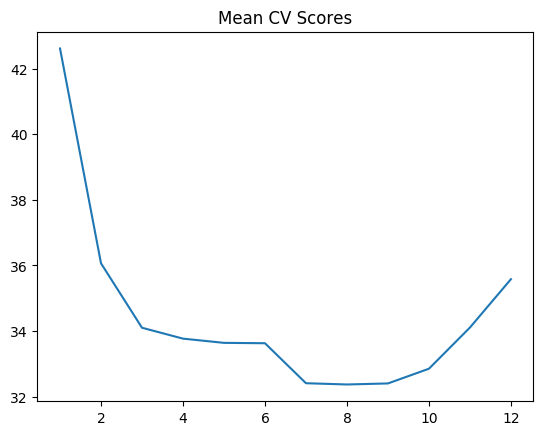
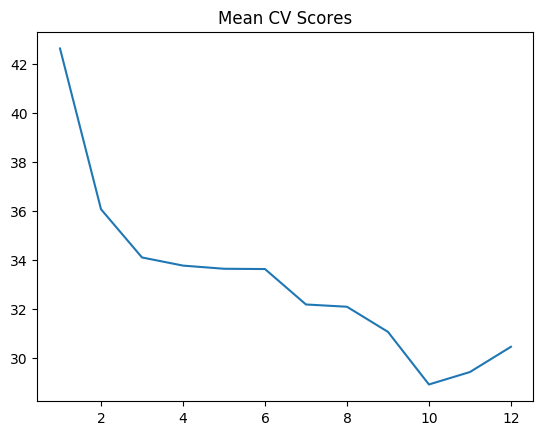
Changes

diff --git a/RandPython-Part3.html b/RandPython-Part3.html
@@ -8603,7 +8603,7 @@ fig1.figure.savefig('fig1.png', bbox_inches='tight')
 print(pd.DataFrame.from_dict(sfs.get_metric_dict(confidence_interval=0.90)).T)
 
 idx = np.argmin(n)
-print(idx)
+print &quot;No of features=&quot;,idx
 #Get the features indices for the best forward fit and convert to list
 b=list(a[idx]['feature_idx'])
 print(b)
@@ -8642,7 +8642,7 @@ print(X.columns[b])</code></pre>
 ## 11        (0, 1, 2, 3, 4, 5, 6, 7, 10, 11, 12)  24.5175  12.2587  
 ## 12     (0, 1, 2, 3, 4, 5, 6, 7, 9, 10, 11, 12)  25.5012  12.7506  
 ## 13  (0, 1, 2, 3, 4, 5, 6, 7, 8, 9, 10, 11, 12)  23.0919   11.546  
-## 7
+## No of features= 7
 ## [0, 2, 3, 5, 7, 10, 12]
 ## #################################################################################
 ## Features selected in forward fit
@@ -8717,8 +8717,8 @@ coefi</code></pre>
 ## -19.000715500   3.714720418   0.019952654  -1.472533973   0.326758004 
 ##           tax  teacherRatio         color        status 
 ##  -0.011380750  -0.972862622   0.009549938  -0.582159093</code></pre>
-<div id="backward-fit" class="section level2">
-<h2>Backward fit</h2>
+<div id="backward-fit---python-code" class="section level2">
+<h2>Backward fit - Python code</h2>
 <pre class="python"><code>import numpy as np
 import pandas as pd
 import os
@@ -8766,7 +8766,7 @@ fig2.figure.savefig('fig2.png', bbox_inches='tight')
 print(pd.DataFrame.from_dict(sfs.get_metric_dict(confidence_interval=0.90)).T)
 
 idx = np.argmin(n)
-print(idx)
+print &quot;No of features=&quot;,idx
 #Get the features indices for the best forward fit and convert to list
 b=list(a[idx]['feature_idx'])
 print(b)
@@ -8806,7 +8806,7 @@ print(X.columns[b])
 ## 11        (0, 1, 3, 4, 6, 7, 8, 9, 10, 11, 12)  10.8018  5.40092  
 ## 12     (0, 1, 2, 3, 4, 6, 7, 8, 9, 10, 11, 12)  11.0653  5.53265  
 ## 13  (0, 1, 2, 3, 4, 5, 6, 7, 8, 9, 10, 11, 12)  23.0919   11.546  
-## 9
+## No of features= 9
 ## [0, 1, 4, 7, 8, 9, 10, 11, 12]
 ## #################################################################################
 ## Features selected in bacward fit
@@ -8818,6 +8818,203 @@ print(X.columns[b])
 <p class="caption">output</p>
 </div>
 </div>
+</div>
+<div id="sffs---python" class="section level1">
+<h1>SFFS - Python</h1>
+<pre class="python"><code>import numpy as np
+import pandas as pd
+import os
+import matplotlib.pyplot as plt
+from sklearn.model_selection import train_test_split
+from sklearn.linear_model import LinearRegression
+from sklearn.datasets import load_boston
+from mlxtend.plotting import plot_sequential_feature_selection as plot_sfs
+import matplotlib.pyplot as plt
+from mlxtend.feature_selection import SequentialFeatureSelector as SFS
+from sklearn.linear_model import LinearRegression
+
+
+df = pd.read_csv(&quot;Boston.csv&quot;,encoding = &quot;ISO-8859-1&quot;)
+#Rename the columns
+df.columns=[&quot;no&quot;,&quot;crimeRate&quot;,&quot;zone&quot;,&quot;indus&quot;,&quot;chasRiver&quot;,&quot;NO2&quot;,&quot;rooms&quot;,&quot;age&quot;,
+              &quot;distances&quot;,&quot;idxHighways&quot;,&quot;taxRate&quot;,&quot;teacherRatio&quot;,&quot;color&quot;,&quot;status&quot;,&quot;cost&quot;]
+X=df[[&quot;crimeRate&quot;,&quot;zone&quot;,&quot;indus&quot;,&quot;chasRiver&quot;,&quot;NO2&quot;,&quot;rooms&quot;,&quot;age&quot;,
+              &quot;distances&quot;,&quot;idxHighways&quot;,&quot;taxRate&quot;,&quot;teacherRatio&quot;,&quot;color&quot;,&quot;status&quot;]]
+y=df['cost']
+lr = LinearRegression()
+
+sffs = SFS(lr, 
+          k_features=(1,13), 
+          forward=True, 
+          floating=True, 
+          scoring='neg_mean_squared_error',
+          cv=5)
+
+sffs = sffs.fit(X.as_matrix(), y.as_matrix())
+a=sffs.get_metric_dict()
+n=[]
+o=[]
+for i in np.arange(1,13):
+    n.append(-np.mean(a[i]['cv_scores'])) 
+   
+    
+    
+m=np.arange(1,13)
+# Get the index of the minimum CV score
+
+
+fig3=plt.plot(m,n)
+fig3=plt.title('Mean CV Scores')
+fig3.figure.savefig('fig3.png', bbox_inches='tight')
+
+print(pd.DataFrame.from_dict(sffs.get_metric_dict(confidence_interval=0.90)).T)
+
+idx = np.argmin(n)
+print &quot;No of features=&quot;,idx
+#Get the features indices for the best forward floating fit and convert to list
+b=list(a[idx]['feature_idx'])
+print(b)
+
+print(&quot;#################################################################################&quot;)
+# Index the column names. 
+# Features from forward fit
+print(&quot;Features selected in forward fit&quot;)
+print(X.columns[b])</code></pre>
+<pre><code>##    avg_score ci_bound                                          cv_scores  \
+## 1   -42.6185  19.0465  [-23.5582499971, -41.8215743748, -73.993608929...   
+## 2   -36.0651  16.3184  [-18.002498199, -40.1507894517, -56.5286659068...   
+## 3   -34.1001    20.87  [-9.43012884381, -25.9584955394, -36.184188174...   
+## 4   -33.7681  20.1638  [-8.86076528781, -28.650217633, -35.7246353855...   
+## 5   -33.6392  20.5271  [-8.90807628524, -28.0684679108, -35.827463022...   
+## 6   -33.6276  19.0859  [-9.549485942, -30.9724602876, -32.6689523347,...   
+## 7   -32.1834  12.1001  [-17.9491036167, -39.6479234651, -45.470227740...   
+## 8   -32.0908  11.8179  [-17.4389015788, -41.2453629843, -44.247557798...   
+## 9   -31.0671  10.1581  [-17.2689542913, -37.4379370429, -41.366372300...   
+## 10  -28.9225  9.39697  [-18.562171585, -29.968504938, -39.9586835965,...   
+## 11  -29.4301  10.8831  [-18.3346152225, -30.3312847532, -45.065432793...   
+## 12  -30.4589  11.1486  [-18.493389527, -35.0290639374, -45.1558231765...   
+## 13  -37.1318  23.2657  [-12.4603005692, -26.0486211062, -33.074137979...   
+## 
+##                                    feature_idx  std_dev  std_err  
+## 1                                        (12,)  18.9042  9.45212  
+## 2                                     (10, 12)  16.1965  8.09826  
+## 3                                  (10, 12, 5)  20.7142  10.3571  
+## 4                               (10, 3, 12, 5)  20.0132  10.0066  
+## 5                            (0, 10, 3, 12, 5)  20.3738  10.1869  
+## 6                         (0, 3, 5, 7, 10, 12)  18.9433  9.47167  
+## 7                      (0, 1, 2, 3, 7, 10, 12)  12.0097  6.00487  
+## 8                   (0, 1, 2, 3, 7, 8, 10, 12)  11.7297  5.86484  
+## 9                (0, 1, 2, 3, 7, 8, 9, 10, 12)  10.0822  5.04111  
+## 10           (0, 1, 4, 6, 7, 8, 9, 10, 11, 12)   9.3268   4.6634  
+## 11        (0, 1, 3, 4, 6, 7, 8, 9, 10, 11, 12)  10.8018  5.40092  
+## 12     (0, 1, 2, 3, 4, 6, 7, 8, 9, 10, 11, 12)  11.0653  5.53265  
+## 13  (0, 1, 2, 3, 4, 5, 6, 7, 8, 9, 10, 11, 12)  23.0919   11.546  
+## No of features= 9
+## [0, 1, 2, 3, 7, 8, 9, 10, 12]
+## #################################################################################
+## Features selected in forward fit
+## Index([u'crimeRate', u'zone', u'indus', u'chasRiver', u'distances',
+##        u'idxHighways', u'taxRate', u'teacherRatio', u'status'],
+##       dtype='object')</code></pre>
+<div class="figure">
[1 lines of base64/hex data omitted]
+<p class="caption">output</p>
+</div>
+<pre class="python"><code>import numpy as np
+import pandas as pd
+import os
+import matplotlib.pyplot as plt
+from sklearn.model_selection import train_test_split
+from sklearn.linear_model import LinearRegression
+from sklearn.datasets import load_boston
+from mlxtend.plotting import plot_sequential_feature_selection as plot_sfs
+import matplotlib.pyplot as plt
+from mlxtend.feature_selection import SequentialFeatureSelector as SFS
+from sklearn.linear_model import LinearRegression
+
+
+df = pd.read_csv(&quot;Boston.csv&quot;,encoding = &quot;ISO-8859-1&quot;)
+#Rename the columns
+df.columns=[&quot;no&quot;,&quot;crimeRate&quot;,&quot;zone&quot;,&quot;indus&quot;,&quot;chasRiver&quot;,&quot;NO2&quot;,&quot;rooms&quot;,&quot;age&quot;,
+              &quot;distances&quot;,&quot;idxHighways&quot;,&quot;taxRate&quot;,&quot;teacherRatio&quot;,&quot;color&quot;,&quot;status&quot;,&quot;cost&quot;]
+X=df[[&quot;crimeRate&quot;,&quot;zone&quot;,&quot;indus&quot;,&quot;chasRiver&quot;,&quot;NO2&quot;,&quot;rooms&quot;,&quot;age&quot;,
+              &quot;distances&quot;,&quot;idxHighways&quot;,&quot;taxRate&quot;,&quot;teacherRatio&quot;,&quot;color&quot;,&quot;status&quot;]]
+y=df['cost']
+lr = LinearRegression()
+
+sffs = SFS(lr, 
+          k_features=(1,13), 
+          forward=False, 
+          floating=True, 
+          scoring='neg_mean_squared_error',
+          cv=5)
+
+sffs = sffs.fit(X.as_matrix(), y.as_matrix())
+a=sffs.get_metric_dict()
+n=[]
+o=[]
+for i in np.arange(1,13):
+    n.append(-np.mean(a[i]['cv_scores'])) 
+   
+    
+    
+m=np.arange(1,13)
+# Get the index of the minimum CV score
+
+
+fig4=plt.plot(m,n)
+fig4=plt.title('Mean CV Scores')
+fig4.figure.savefig('fig4.png', bbox_inches='tight')
+
+print(pd.DataFrame.from_dict(sffs.get_metric_dict(confidence_interval=0.90)).T)
+
+idx = np.argmin(n)
+print &quot;No of features=&quot;,idx
+#Get the features indices for the best backward floating fit and convert to list
+b=list(a[idx]['feature_idx'])
+print(b)
+
+print(&quot;#################################################################################&quot;)
+# Index the column names. 
+# Features from forward fit
+print(&quot;Features selected in backward floating fit&quot;)
+print(X.columns[b])</code></pre>
+<pre><code>##    avg_score ci_bound                                          cv_scores  \
+## 1   -42.6185  19.0465  [-23.5582499971, -41.8215743748, -73.993608929...   
+## 2   -36.0651  16.3184  [-18.002498199, -40.1507894517, -56.5286659068...   
+## 3   -34.1001    20.87  [-9.43012884381, -25.9584955394, -36.184188174...   
+## 4    -33.463  12.4081  [-20.6415333292, -37.3247852146, -47.479302977...   
+## 5   -32.3699  11.2725  [-20.8771078371, -34.9825657934, -45.813447203...   
+## 6   -31.6742  11.2458  [-20.3082500364, -33.2288990522, -45.535507868...   
+## 7   -30.7133  9.23881  [-19.4425181917, -31.1742902259, -40.531266671...   
+## 8   -29.7432  9.84468  [-19.445277268, -30.0641187173, -40.2561247122...   
+## 9   -29.0878  9.45027  [-19.3545569877, -30.094768669, -39.7506036377...   
+## 10  -28.9225  9.39697  [-18.562171585, -29.968504938, -39.9586835965,...   
+## 11  -29.4301  10.8831  [-18.3346152225, -30.3312847532, -45.065432793...   
+## 12  -30.4589  11.1486  [-18.493389527, -35.0290639374, -45.1558231765...   
+## 13  -37.1318  23.2657  [-12.4603005692, -26.0486211062, -33.074137979...   
+## 
+##                                    feature_idx  std_dev  std_err  
+## 1                                        (12,)  18.9042  9.45212  
+## 2                                     (10, 12)  16.1965  8.09826  
+## 3                                  (10, 12, 5)  20.7142  10.3571  
+## 4                               (4, 10, 7, 12)  12.3154  6.15772  
+## 5                            (12, 10, 4, 1, 7)  11.1883  5.59417  
+## 6                        (4, 7, 8, 10, 11, 12)  11.1618  5.58088  
+## 7                      (1, 4, 7, 8, 9, 10, 12)  9.16981  4.58491  
+## 8                  (1, 4, 7, 8, 9, 10, 11, 12)  9.77116  4.88558  
+## 9               (0, 1, 4, 7, 8, 9, 10, 11, 12)  9.37969  4.68985  
+## 10           (0, 1, 4, 6, 7, 8, 9, 10, 11, 12)   9.3268   4.6634  
+## 11        (0, 1, 3, 4, 6, 7, 8, 9, 10, 11, 12)  10.8018  5.40092  
+## 12     (0, 1, 2, 3, 4, 6, 7, 8, 9, 10, 11, 12)  11.0653  5.53265  
+## 13  (0, 1, 2, 3, 4, 5, 6, 7, 8, 9, 10, 11, 12)  23.0919   11.546  
+## No of features= 9
+## [0, 1, 4, 7, 8, 9, 10, 11, 12]
+## #################################################################################
+## Features selected in backward floating fit
+## Index([u'crimeRate', u'zone', u'NO2', u'distances', u'idxHighways', u'taxRate',
+##        u'teacherRatio', u'color', u'status'],
+##       dtype='object')</code></pre>
 </div>
 
 
